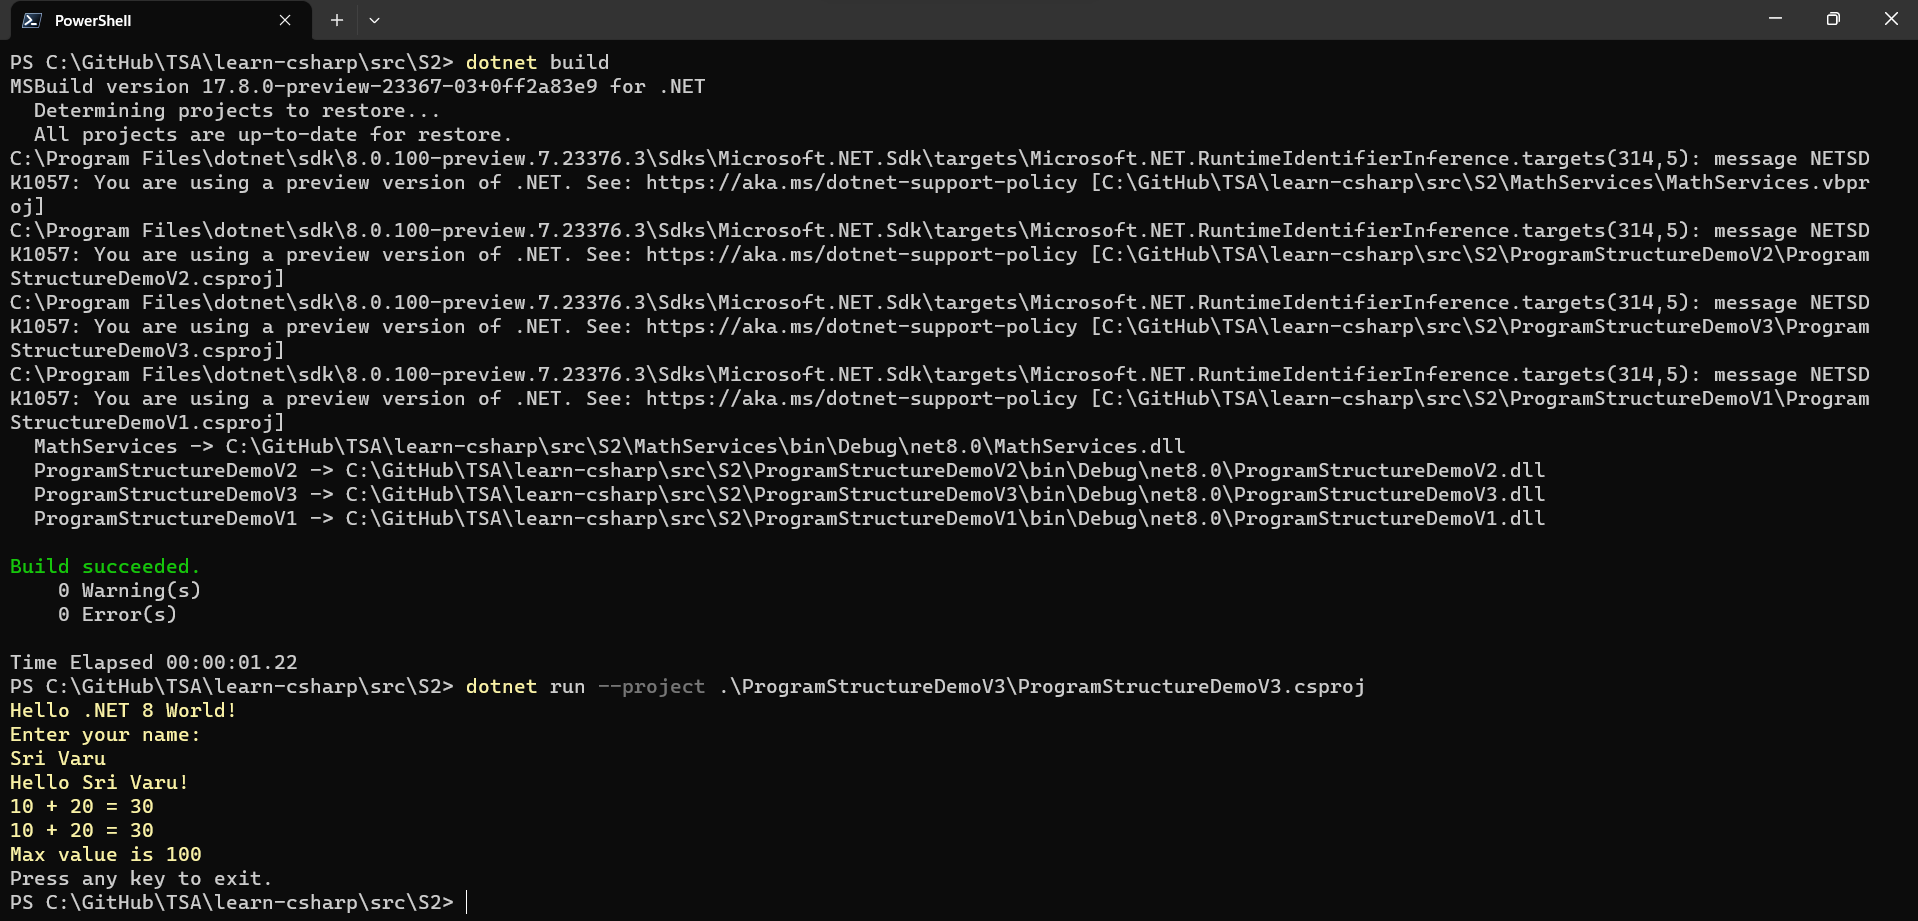
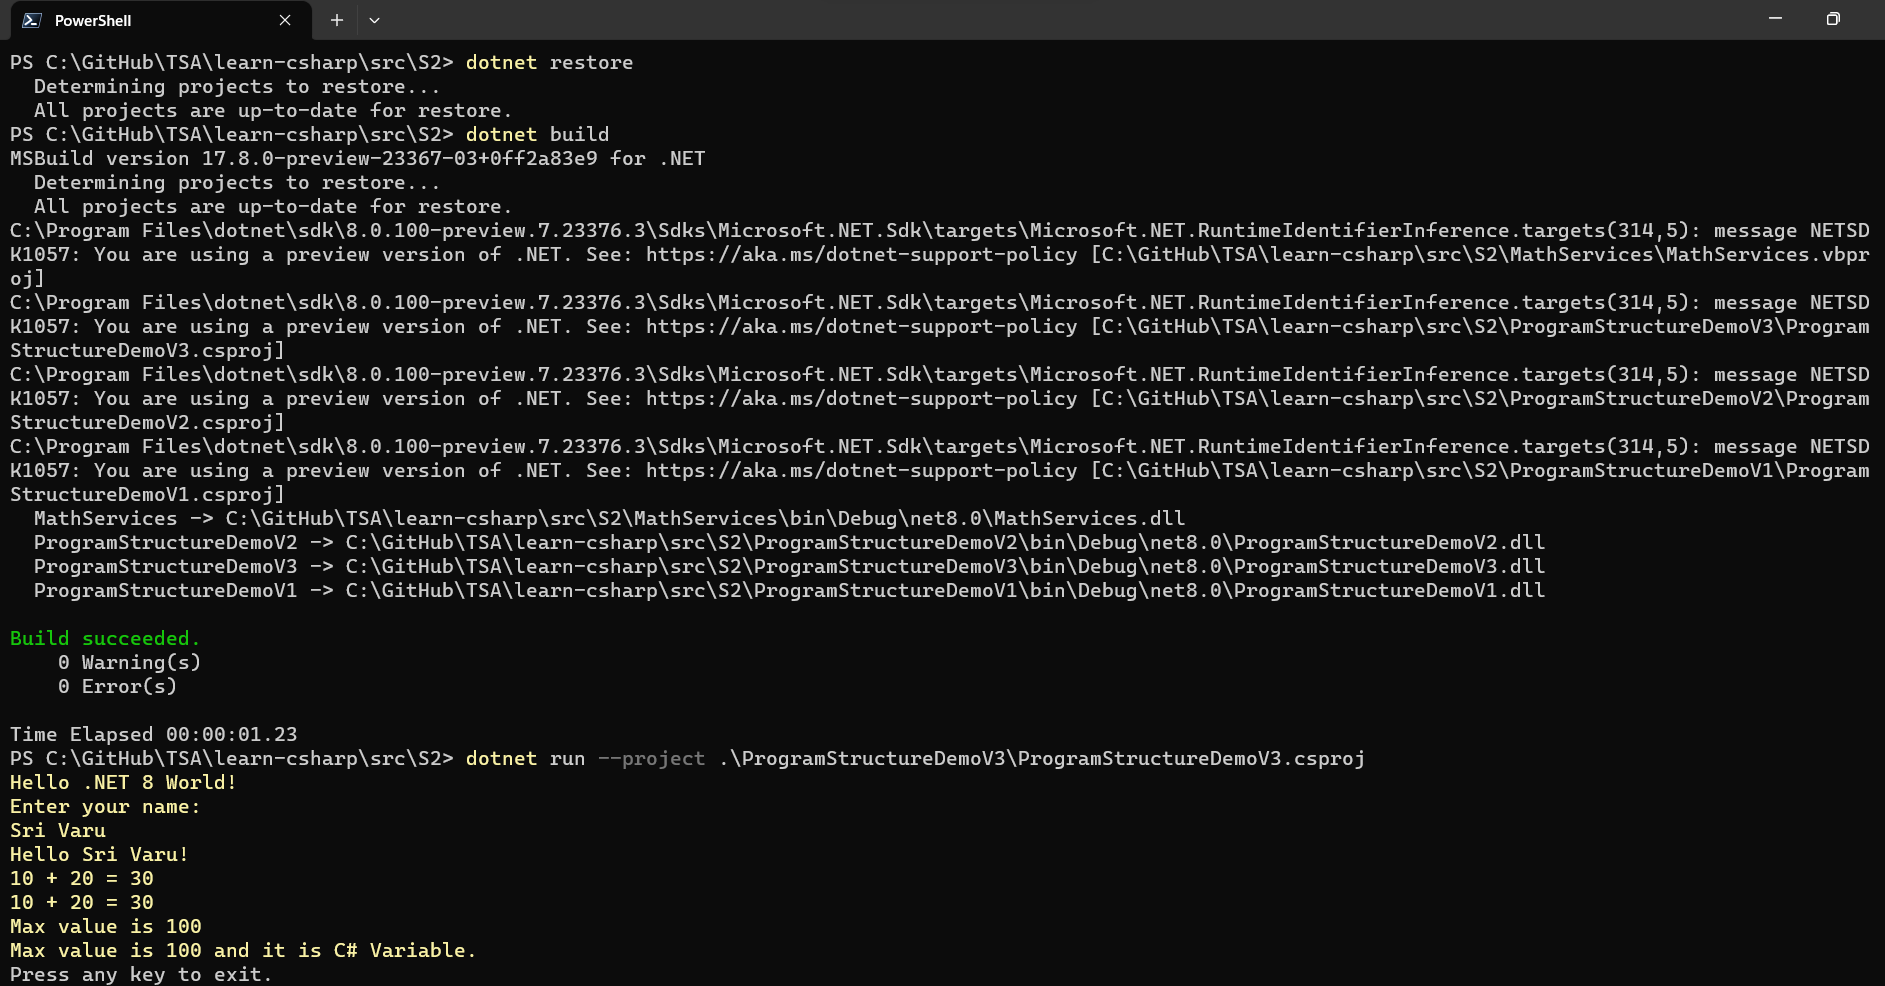
Swamy/15aug coding (#29)
* Update S1.md

* Changes

* Changes

* Update S2.md

* Update S2.md

* Changes

Changed region(s): [[0.0, 0.0, 1.0, 1.0], [0.0, 0.0, 0.0615, 0.0304]]

diff --git a/src/S2/ProgramStructureDemoV3/Program.cs b/src/S2/ProgramStructureDemoV3/Program.cs
@@ -1,4 +1,7 @@
-using MathServices.MathLibrary;
+/* 
+    Using VB.NET style namespace aliasing. We are using VB.NET Library in this C# program.
+*/
+using MathServices.MathLibrary;
 
 Console.ForegroundColor = ConsoleColor.Yellow;
 
@@ -15,6 +18,9 @@ Console.WriteLine($"{num1} + {num2} = {maths.AddNumbers(num1, num2)}");
 /* Accessing static members of a class. */
 Console.WriteLine($"{num1} + {num2} = {Maths.AddNumbersV1(num1, num2)}");
 Console.WriteLine($"Max value is {Maths.MaxValue}");
+
+int value = Maths.MaxValue;
+Console.WriteLine($"Max value is {value} and it is C# Variable.");
 
 Console.ResetColor();
 

diff --git a/documentation/S2.md b/documentation/S2.md
@@ -1,14 +1,31 @@
 # C# Fundamentals - Part of Microservices Series - Session 1 of 120
 
-## Date: 14-Aug-2023
+## Date: 28-Aug-2023
 
-## Event URL: [https://www.meetup.com/dot-net-learners-house-hyderabad/events/294980880](https://www.meetup.com/dot-net-learners-house-hyderabad/events/294980880)
+## Event URL: [https://www.meetup.com/dot-net-learners-house-hyderabad/events/294980994](https://www.meetup.com/dot-net-learners-house-hyderabad/events/294980994)
+
+## YouTube URL: [https://www.youtube.com/watch?v=VxMY7FMm_JQ](https://www.youtube.com/watch?v=VxMY7FMm_JQ)
 
 ![Viswanatha Swamy P K |150x150](./images/S1/ViswanathaSwamyPK.PNG)
 
 ## Agenda for this session
 
-> 1. To be decided
+> 1. Preparing Folder, Solution, Project(s)
+> 1. - Create a New Solution
+> 1. - Copy two existings projects from S1 folder to S2 folder and add them to the solution
+> 1. Create a New Console Project (C#), Class Library (VB) and them to the solution S2
+> 1. - Creating a New Console Project (C#) and add it to the solution S2
+> 1. - Creating a New Class Library (VB) and add it to the solution S2
+> 1. Executing three Console Project(s)
+> 1. Modify the MathServices Library and add it to the ProgramStructureDemoV3 Project
+> 1. - Modify the MathServices Library
+> 1. - Add MathServices Library reference to the ProgramStructureDemoV3 Project
+> 1. Modify the ProgramStructureDemoV3 Project and Execute
+> 1. - Modify the ProgramStructureDemoV3 Project
+> 1. - Execute the ProgramStructureDemoV3 Project
+> 1. Dive into understanding "How it was possible to use VB.NET Library in C# Project?"
+> 1. Dive into understanding "What is Common Language Infrastructure?"
+> 1. Dive into understanding "JIT Compilation" Process
 > 1. SUMMARY / RECAP / Q&A
 > 1. What is next?
 
@@ -18,15 +35,17 @@
 
 ---
 
-## X. Preparing Folder, Solution, Project(s)
+## 1. Preparing Folder, Solution, Project(s)
 
-### X.X. Create Solution
+> 1. Discussion and demo
+
+### 1.1. Create a New Solution
 
 ```powershell
 dotnet new sln -n S2
 ```
 
-### X.X. Copy two projects from S1 folder to S2 folder and add them to the solution
+### 1.2. Copy two existings projects from S1 folder to S2 folder and add them to the solution
 
 ```powershell
 dotnet sln add .\ProgramStructureDemoV1\ProgramStructureDemoV1.csproj
@@ -36,19 +55,29 @@ dotnet sln add .\ProgramStructureDemoV2\ProgramStructureDemoV2.csproj
 
 ![Projects And Solution |150x150](./images/S2/S2_With_Old_Projects.PNG)
 
-### X.X. Create New Console Project, Class Library (VB) and them to the solution S2
+## 2. Create a New Console Project (C#), Class Library (VB) and them to the solution S2
+
+> 1. Discussion and demo
+
+### 2.1. Creating a New Console Project (C#) and add it to the solution S2
 
 ```powershell
 dotnet new console -o ProgramStructureDemoV3
 dotnet sln add .\ProgramStructureDemoV3\ProgramStructureDemoV3.csproj
+```
 
+### 2.2. Creating a New Class Library (VB) and add it to the solution S2
+
+```powershell
 dotnet new classlib -o MathServices --language VB
 dotnet sln add .\MathServices\MathServices.vbproj
 ```
 
 ![S2 with Two New Projects |150x150](./images/S2/S2_With_Two_New_Projects.PNG)
 
-### X.X. Execute the Project(s)
+## 3. Executing three Console Project(s)
+
+> 1. Discussion and demo
 
 ```powershell
 dotnet build
@@ -62,25 +91,29 @@ dotnet run --project .\ProgramStructureDemoV3\ProgramStructureDemoV3.csproj
 
 ![Executing 3 Projects |150x150](./images/S2/Executing_3_Console_Apps.PNG)
 
-## X. Modify the MathServices Project and add it to the ProgramStructureDemoV3 Project
+## 4. Modify the MathServices Library and add it to the ProgramStructureDemoV3 Project
 
-### X.X. Modify the MathServices Project
+> 1. Discussion and demo
+
+### 4.1. Modify the MathServices Library
 
 ```vb
-Public Class Maths
-    Public Shared MaxValue As Integer = 100
+Namespace MathLibrary
+    Public Class Maths
+        Public Shared MaxValue As Integer = 100
 
-    Public Function AddNumbers(a As Integer, b As Integer) As Integer
-        Return a + b
-    End Function
+        Public Function AddNumbers(a As Integer, b As Integer) As Integer
+            Return a + b
+        End Function
 
-    Public Shared Function AddNumbersV1(a As Integer, b As Integer) As Integer
-        Return a + b
-    End Function
-End Class
+        Public Shared Function AddNumbersV1(a As Integer, b As Integer) As Integer
+            Return a + b
+        End Function
+    End Class
+End Namespace
 ```
 
-### X.X. Add the MathServices Project to the ProgramStructureDemoV3 Project
+### 4.2. Add MathServices Library reference to the ProgramStructureDemoV3 Project
 
 ```powershell
 dotnet add .\ProgramStructureDemoV3\ProgramStructureDemoV3.csproj reference .\MathServices\MathServices.vbproj
@@ -96,11 +129,16 @@ OR
 
 ![Add Project Reference |150x150](./images/S2/Add_Project_Reference.PNG)
 
-## X. Modify the ProgramStructureDemoV3 Project and Execute
+## 5. Modify the ProgramStructureDemoV3 Project and Execute
 
-### X.X. Modify the ProgramStructureDemoV3 Project
+> 1. Discussion and demo
+
+### 5.1. Modify the ProgramStructureDemoV3 Project
 
 ```csharp
+/* 
+    Using VB.NET style namespace aliasing. We are using VB.NET Library in this C# program.
+*/
 using MathServices.MathLibrary;
 
 Console.ForegroundColor = ConsoleColor.Yellow;
@@ -126,13 +164,40 @@ Console.WriteLine("Press any key to exit.");
 Console.ReadKey();
 ```
 
-### X.X. Execute the ProgramStructureDemoV3 Project
+### 5.2. Execute the ProgramStructureDemoV3 Project
 
 ```powershell
 dotnet run --project .\ProgramStructureDemoV3\ProgramStructureDemoV3.csproj
 ```
 
 ![Executing CSProj with VB.Net Library |150x150](./images/S2/Executing_CSProj_with_VBLibrary.PNG)
+
+## 6. Dive into understanding "How it was possible to use VB.NET Library in C# Project?"
+
+> 1. Discussion and demo
+
+**Reference(s):**
+
+> 1. [https://learn.microsoft.com/en-us/dotnet/standard/common-type-system](https://learn.microsoft.com/en-us/dotnet/standard/common-type-system)
+> 1. [https://learn.microsoft.com/en-us/dotnet/standard/language-independence](https://learn.microsoft.com/en-us/dotnet/standard/language-independence)
+> 1. [https://learn.microsoft.com/en-us/dotnet/standard/base-types/common-type-system](https://learn.microsoft.com/en-us/dotnet/standard/base-types/common-type-system)
+> 1. [https://learn.microsoft.com/en-us/dotnet/api/system.int32?view=net-7.0](https://learn.microsoft.com/en-us/dotnet/api/system.int32?view=net-7.0)
+
+## 7. Dive into understanding "What is Common Language Infrastructure?"
+
+> 1. Discussion and demo
+
+**Reference(s):**
+
+> 1. [https://en.wikipedia.org/wiki/Common_Language_Infrastructure#Implementations](https://en.wikipedia.org/wiki/Common_Language_Infrastructure#Implementations)
+
+## 8. Dive into understanding "JIT Compilation" Process
+
+> 1. Discussion and demo
+
+**Reference(s):**
+
+> 1. [https://en.wikipedia.org/wiki/Common_Language_Infrastructure#Implementations](https://en.wikipedia.org/wiki/Common_Language_Infrastructure#Implementations)
 
 ## X. SUMMARY / RECAP / Q&A
 

diff --git a/documentation/S1.md b/documentation/S1.md
@@ -4,6 +4,8 @@
 
 ## Event URL: [https://www.meetup.com/dot-net-learners-house-hyderabad/events/294980880](https://www.meetup.com/dot-net-learners-house-hyderabad/events/294980880)
 
+## YouTube URL: [https://www.youtube.com/watch?v=VxMY7FMm_JQ](https://www.youtube.com/watch?v=VxMY7FMm_JQ)
+
 ![Viswanatha Swamy P K |150x150](./images/S1/ViswanathaSwamyPK.PNG)
 
 ## Agenda for this session
@@ -283,6 +285,8 @@ Console.ReadKey();
 
 > 1. Discussion and Demo
 
+### 11.1. Compiler Generated Code `<Main>$()` method
+
 ```csharp
 using System;
 using System.Runtime.CompilerServices;
@@ -307,16 +311,21 @@ internal class Program
 
 ## X. What is next?
 
-> 1. Introduction to Variables
-> 1. Showing Compiler Version `#error version`
-> 1. ilDasm Demo
-> 1. `Global namespace imports` feature
-> 1. `File-scoped namespaces` feature
-> 1. Common Language Infrastructure (CLI)
-> 1. Creating a Console Application with .NET (6/7/8)
-> 1. Creating a Console Application with global.json inside folder
-> 1. Importing Namespaces
-> 1. Notification Icon
-> 1. Multiple Projects
+> 1. Preparing Folder, Solution, Project(s)
+> 1. - Create a New Solution
+> 1. - Copy two existings projects from S1 folder to S2 folder and add them to the solution
+> 1. Create a New Console Project (C#), Class Library (VB) and them to the solution S2
+> 1. - Creating a New Console Project (C#) and add it to the solution S2
+> 1. - Creating a New Class Library (VB) and add it to the solution S2
+> 1. Executing three Console Project(s)
+> 1. Modify the MathServices Library and add it to the ProgramStructureDemoV3 Project
+> 1. - Modify the MathServices Library
+> 1. - Add MathServices Library reference to the ProgramStructureDemoV3 Project
+> 1. Modify the ProgramStructureDemoV3 Project and Execute
+> 1. - Modify the ProgramStructureDemoV3 Project
+> 1. - Execute the ProgramStructureDemoV3 Project
+> 1. Dive into understanding "How it was possible to use VB.NET Library in C# Project?"
+> 1. Dive into understanding "What is Common Language Infrastructure?"
+> 1. Dive into understanding "JIT Compilation" Process
 > 1. SUMMARY / RECAP / Q&A
 > 1. What is next?
